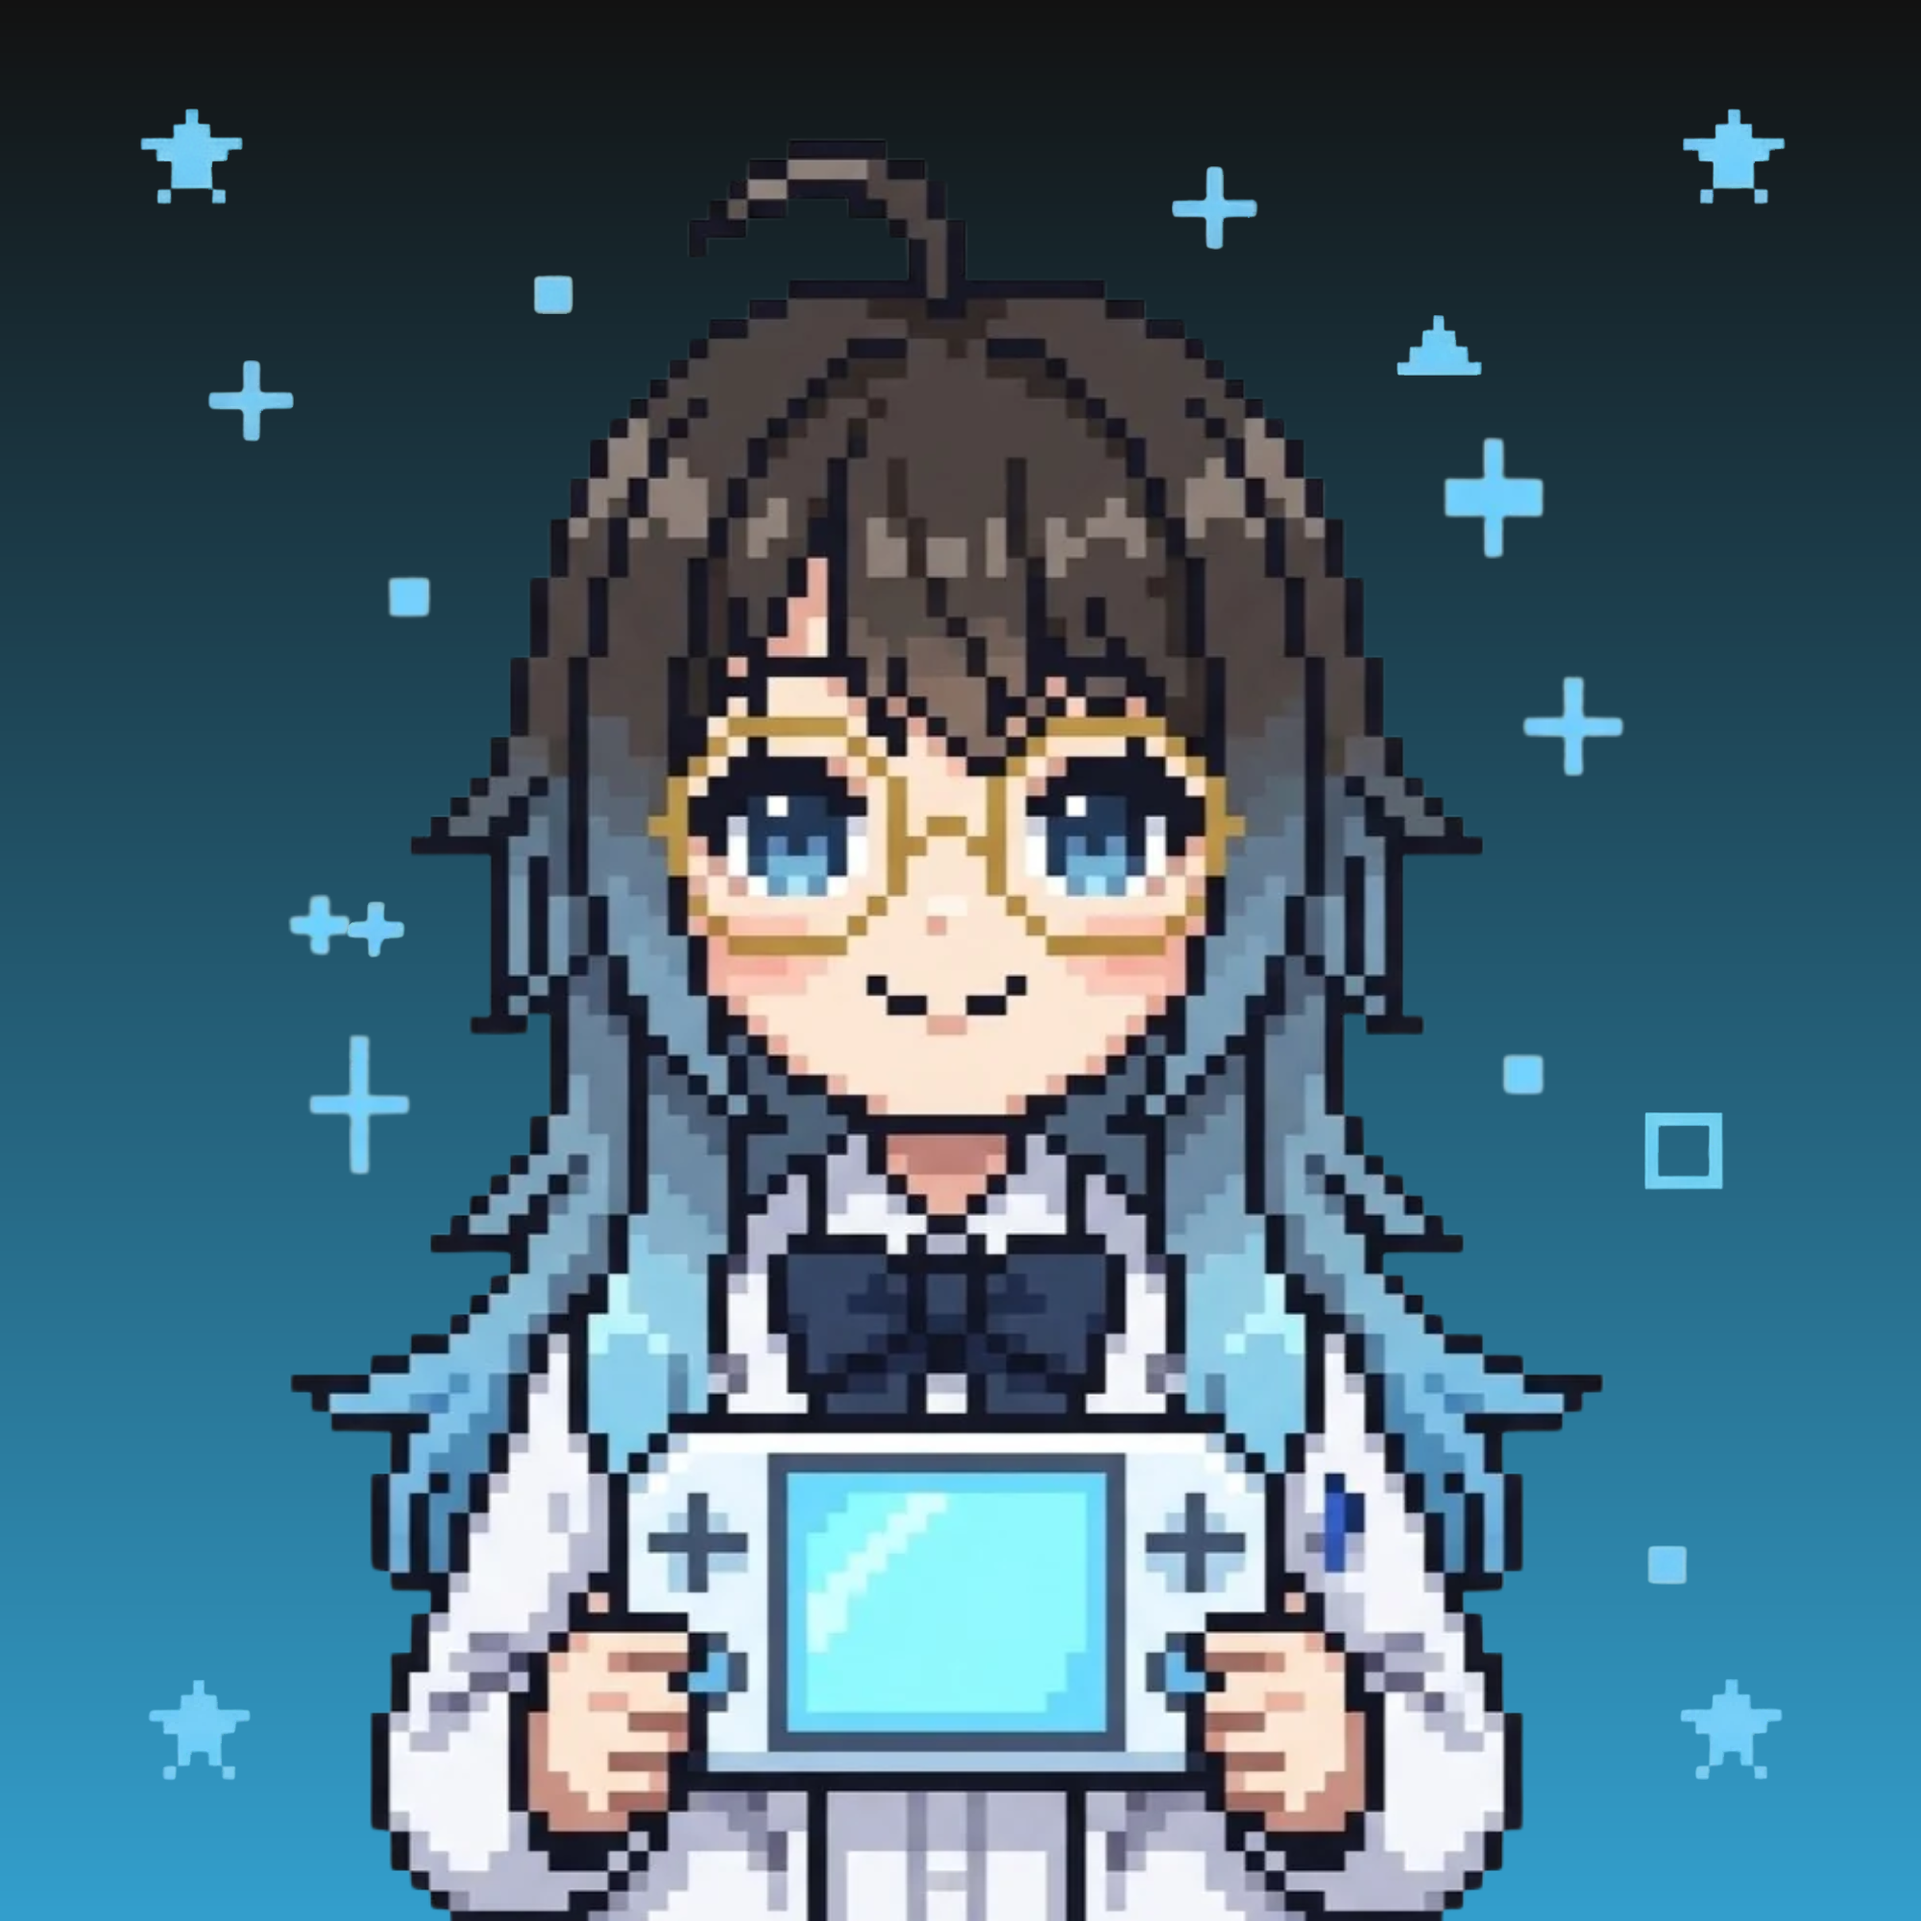
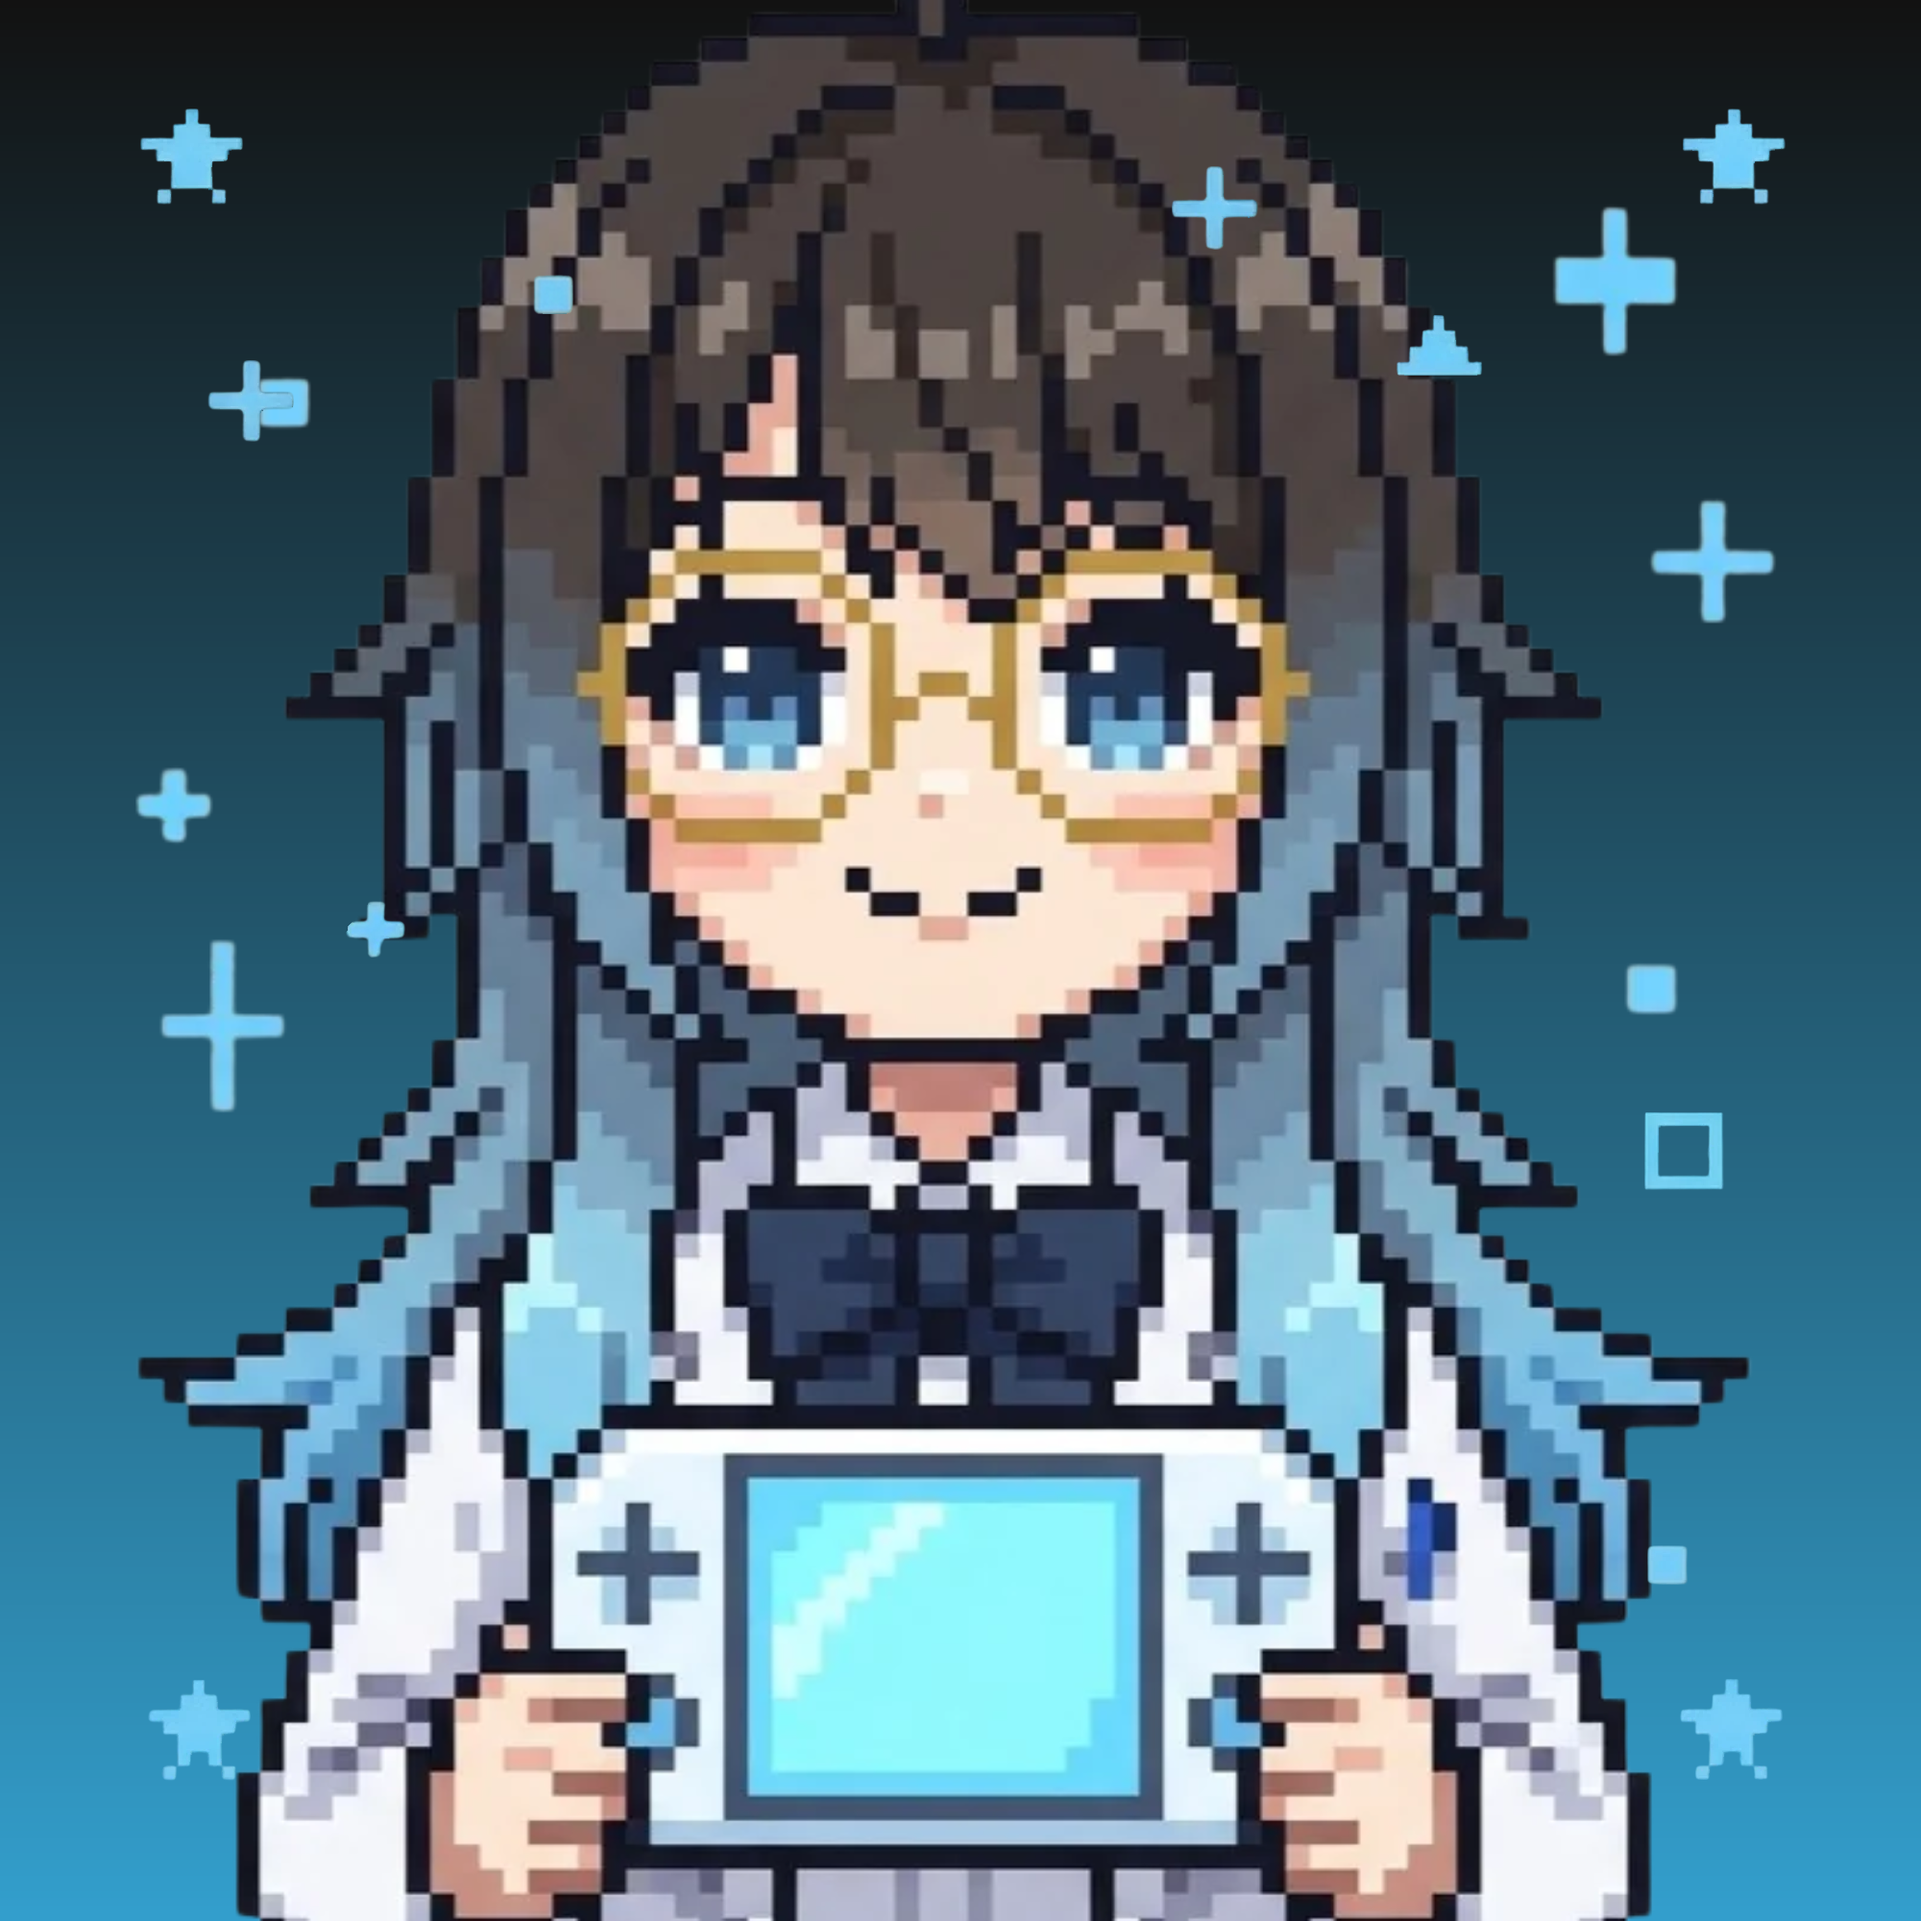
add

diff --git a/app/player.tsx b/app/player.tsx
@@ -1,3 +1,4 @@
+import { NavigationBar } from 'expo-navigation-bar';
 import { Redirect, type Href, router, useFocusEffect } from 'expo-router';
 import * as ScreenOrientation from 'expo-screen-orientation';
 import { StatusBar } from 'expo-status-bar';
@@ -34,7 +35,7 @@ import {
 } from '@/lib/saveStates';
 import { loadControlLayout } from '@/lib/controlLayout';
 import { loadControllerMapping } from '@/lib/controllerMapping';
-import { loadSettings, saveSettings } from '@/lib/setup';
+import { type GameOrientation, loadSettings, saveSettings } from '@/lib/setup';
 import { applyVideoSettings } from '@/lib/video';
 import KrsEmulator, { KrsEmulatorView } from '@/modules/krs-emulator';
 
@@ -44,6 +45,19 @@ const TOAST_RISE_PX = 10;
 const UNDO_TOAST_MS = 6000;
 
 type Toast = { message: string; onUndo?: () => void };
+
+/** A lock applies whatever the phone's auto-rotate switch says; only 'auto' follows it. */
+function applyGameOrientation(orientation: GameOrientation) {
+  const applied =
+    orientation === 'auto'
+      ? ScreenOrientation.unlockAsync()
+      : ScreenOrientation.lockAsync(
+          orientation === 'landscape'
+            ? ScreenOrientation.OrientationLock.LANDSCAPE
+            : ScreenOrientation.OrientationLock.PORTRAIT_UP
+        );
+  applied.catch(() => {});
+}
 
 function ToastView({ toast }: { toast: Toast }) {
   const [entrance] = useState(() => new Animated.Value(0));
@@ -103,6 +117,7 @@ function Player({ request: { game, startState } }: { request: PlayRequest }) {
   const [cheatsOn, setCheatsOn] = useState(0);
   const [playedSeconds, setPlayedSeconds] = useState(game.playSeconds ?? 0);
   const [speed, setSpeed] = useState(() => loadSettings().fastForwardSpeed);
+  const [orientation, setOrientation] = useState(() => loadSettings().gameOrientation);
   const [toast, setToast] = useState<Toast | null>(null);
   const [controlLayout, setControlLayout] = useState(loadControlLayout);
   const [stretchVideo, setStretchVideo] = useState(
@@ -162,7 +177,7 @@ function Player({ request: { game, startState } }: { request: PlayRequest }) {
 
   useFocusEffect(
     useCallback(() => {
-      ScreenOrientation.unlockAsync().catch(() => {});
+      applyGameOrientation(loadSettings().gameOrientation);
       return () => {
         // The control editor sets its own orientation, and this would run after it.
         if (editingControls.current) return;
@@ -316,6 +331,12 @@ function Player({ request: { game, startState } }: { request: PlayRequest }) {
     saveSettings({ fastForwardSpeed: next }).catch(() => {});
   }
 
+  function selectOrientation(next: GameOrientation) {
+    setOrientation(next);
+    applyGameOrientation(next);
+    saveSettings({ gameOrientation: next }).catch(() => {});
+  }
+
   function openSubScreen(href: Href) {
     inSubScreen.current = true;
     setMenuOpen(false);
@@ -372,6 +393,7 @@ function Player({ request: { game, startState } }: { request: PlayRequest }) {
   return (
     <SafeAreaView className={`flex-1 ${width > height ? 'bg-black' : 'bg-background'}`}>
       <StatusBar hidden />
+      <NavigationBar hidden />
       <KrsEmulatorView
         title={title}
         controlLayout={JSON.stringify(controlLayout)}
@@ -399,6 +421,8 @@ function Player({ request: { game, startState } }: { request: PlayRequest }) {
           onOpenControls={openControlEditor}
           fastForwardSpeed={speed}
           onSelectSpeed={selectSpeed}
+          orientation={orientation}
+          onSelectOrientation={selectOrientation}
           onQuickSave={quickSave}
           onQuickLoad={quickLoad}
           onReset={() => KrsEmulator.reset()}

diff --git a/components/InGameMenu.tsx b/components/InGameMenu.tsx
@@ -16,11 +16,18 @@ import { SetupButton } from '@/components/SetupCard';
 import { useBottomSheet } from '@/components/useBottomSheet';
 import { palette } from '@/constants/palette';
 import { formatClock } from '@/lib/library';
+import type { GameOrientation } from '@/lib/setup';
 
 const FAST_FORWARD_OPTIONS = [1.5, 2, 3, 4].map((speed) => ({
   value: speed,
   label: `${speed}×`,
 }));
+
+const ORIENTATION_OPTIONS: { value: GameOrientation; label: string }[] = [
+  { value: 'landscape', label: 'Landscape' },
+  { value: 'portrait', label: 'Portrait' },
+  { value: 'auto', label: 'Auto' },
+];
 
 function formatElapsed(totalSeconds: number) {
   const pad = (value: number) => String(value).padStart(2, '0');
@@ -86,6 +93,8 @@ type InGameMenuProps = {
   cheatsOn: number;
   fastForwardSpeed: number;
   onSelectSpeed: (speed: number) => void;
+  orientation: GameOrientation;
+  onSelectOrientation: (orientation: GameOrientation) => void;
   onOpenSaveStates: () => void;
   onOpenCheats: () => void;
   onOpenControls: () => void;
@@ -104,6 +113,8 @@ export function InGameMenu({
   cheatsOn,
   fastForwardSpeed,
   onSelectSpeed,
+  orientation,
+  onSelectOrientation,
   onOpenSaveStates,
   onOpenCheats,
   onOpenControls,
@@ -256,6 +267,17 @@ export function InGameMenu({
                   onChange={onSelectSpeed}
                   height={56}
                   labelClassName="font-mono text-[15px]"
+                />
+              </View>
+
+              <View className="gap-2.5">
+                <Text className="font-mono-medium text-[12px] tracking-[1.4px] text-secondary">
+                  SCREEN ORIENTATION
+                </Text>
+                <SegmentedControl
+                  options={ORIENTATION_OPTIONS}
+                  value={orientation}
+                  onChange={onSelectOrientation}
                 />
               </View>
 

diff --git a/app/control-editor.tsx b/app/control-editor.tsx
@@ -1,3 +1,4 @@
+import { NavigationBar } from 'expo-navigation-bar';
 import { router, useFocusEffect, useLocalSearchParams } from 'expo-router';
 import * as ScreenOrientation from 'expo-screen-orientation';
 import { StatusBar } from 'expo-status-bar';
@@ -719,6 +720,7 @@ export default function ControlEditorScreen() {
     return (
       <View className="flex-1 bg-black">
         <StatusBar hidden />
+        <NavigationBar hidden />
         {insets.left > 0 && (
           <View className="absolute inset-y-0 left-0 items-center justify-center" style={{ width: insets.left }}>
             <Hatching id="hatch-left" />
@@ -842,6 +844,7 @@ export default function ControlEditorScreen() {
       className="flex-1 bg-background"
       style={{ paddingTop: insets.top, paddingBottom: insets.bottom }}>
       <StatusBar hidden />
+      <NavigationBar hidden />
       <View className="flex-row items-center gap-3 px-3" style={{ height: HEADER_HEIGHT }}>
         <IconAction label="Close" onPress={() => router.back()}>
           <X size={22} color={palette.secondary} />

diff --git a/lib/setup.ts b/lib/setup.ts
@@ -6,10 +6,13 @@ import type { VideoSettings } from '@/lib/video';
 
 const BIOS_SIZE_BYTES = 16 * 1024;
 
+export type GameOrientation = 'landscape' | 'portrait' | 'auto';
+
 export type AppSettings = {
   setupComplete: boolean;
   romFolderUri: string | null;
   fastForwardSpeed: number;
+  gameOrientation: GameOrientation;
   controlLayout: ControlLayout | null;
   controllerMapping: ControllerMapping | null;
   video: VideoSettings;
@@ -25,6 +28,7 @@ const DEFAULT_SETTINGS: AppSettings = {
   setupComplete: false,
   romFolderUri: null,
   fastForwardSpeed: 2,
+  gameOrientation: 'landscape',
   controlLayout: null,
   controllerMapping: null,
   video: { filter: 'original', strength: 0.4, aspect: 'native', scaling: 'fit' },

diff --git a/modules/krs-emulator/android/src/main/java/expo/modules/krsemulator/KrsControlsView.kt b/modules/krs-emulator/android/src/main/java/expo/modules/krsemulator/KrsControlsView.kt
@@ -270,9 +270,9 @@ private val LANDSCAPE = PlayerLayout(
   // Select and Start sit in the strip below the picture, so they don't cover the game.
   select = RectF(373f, 362f, 453f, 402f),
   start = RectF(464f, 362f, 544f, 402f),
-  menu = RectF(546f, 6f, 618f, 54f),
-  fastForward = RectF(289f, 6f, 361f, 54f),
-  dpad = PointF(140f, 306f),
+  menu = RectF(466.5f, 6f, 538.5f, 54f),
+  fastForward = RectF(378.5f, 6f, 450.5f, 54f),
+  dpad = PointF(100f, 306f),
   buttonA = PointF(832f, 362f),
   buttonB = PointF(704f, 362f),
   radiusA = 38f,
